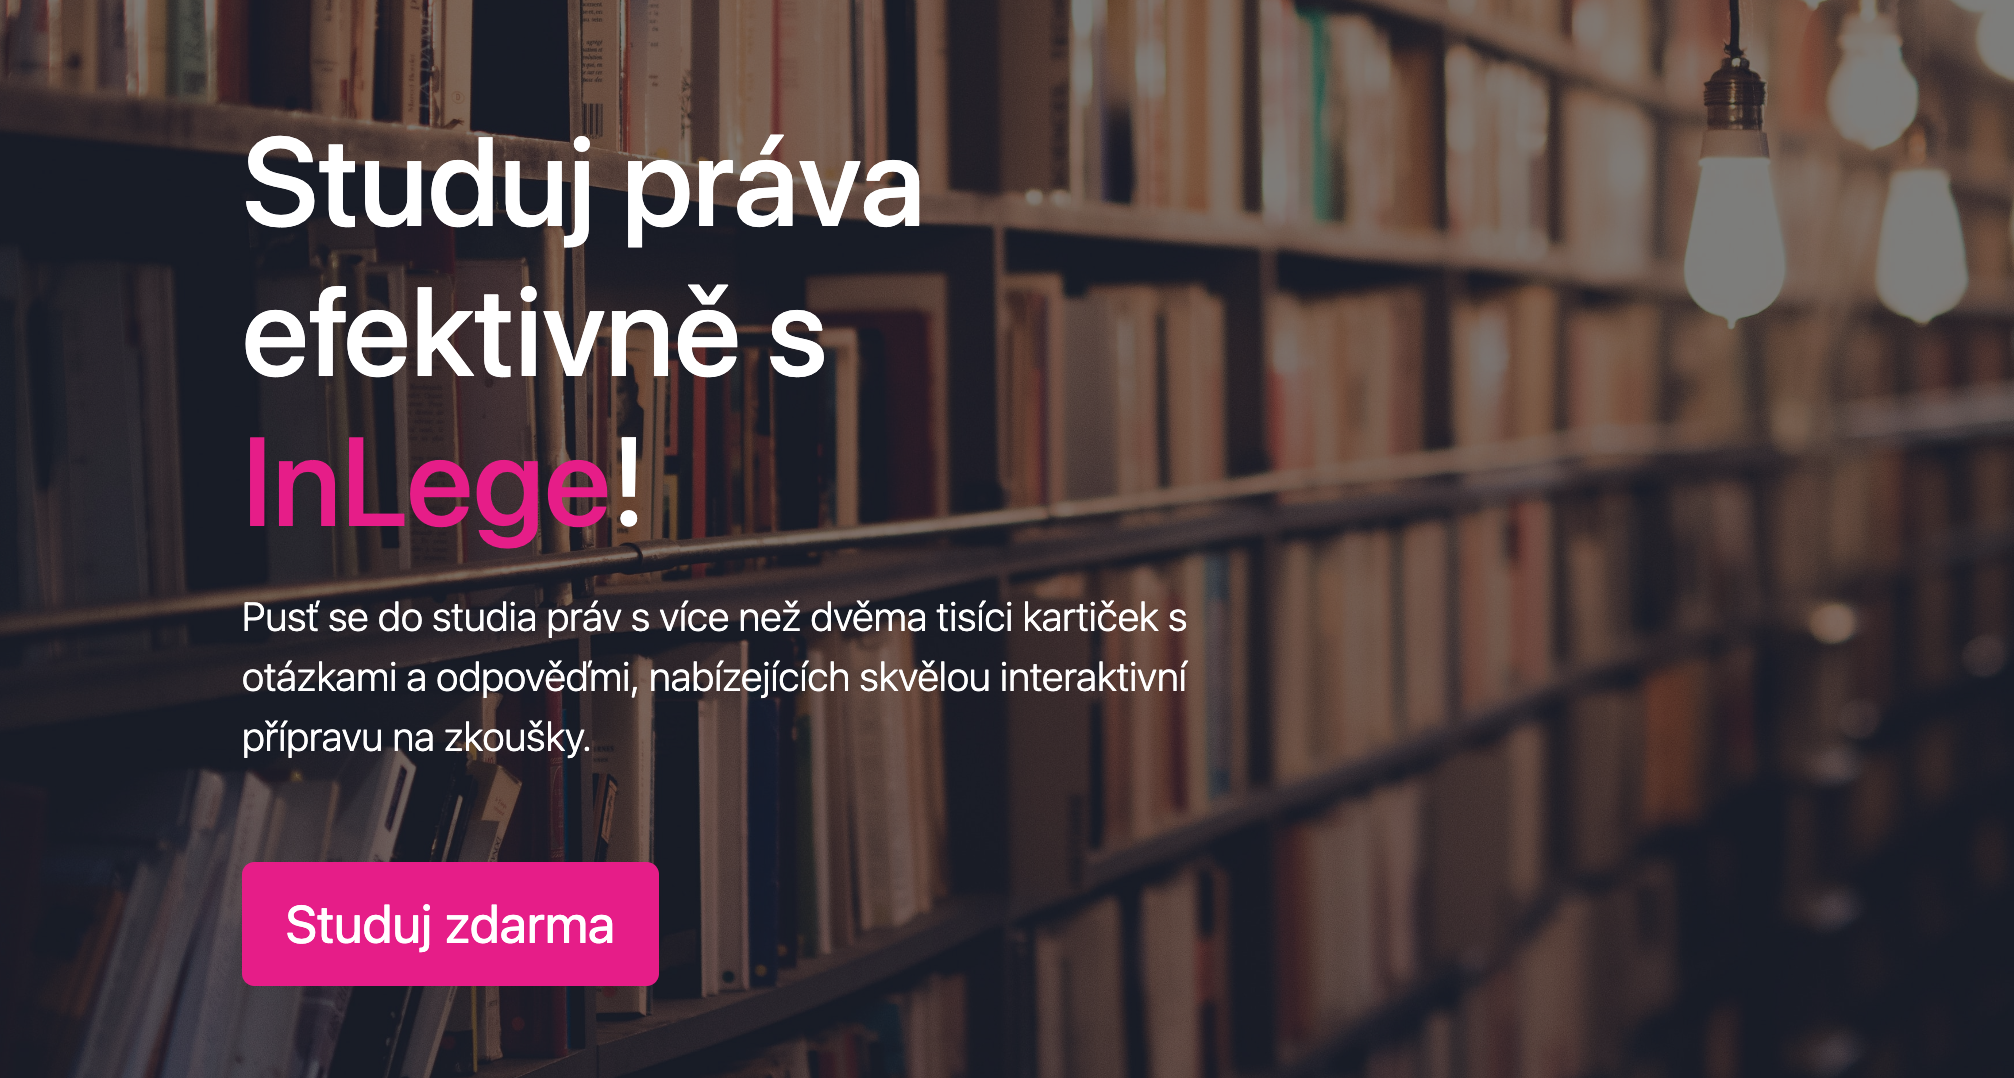
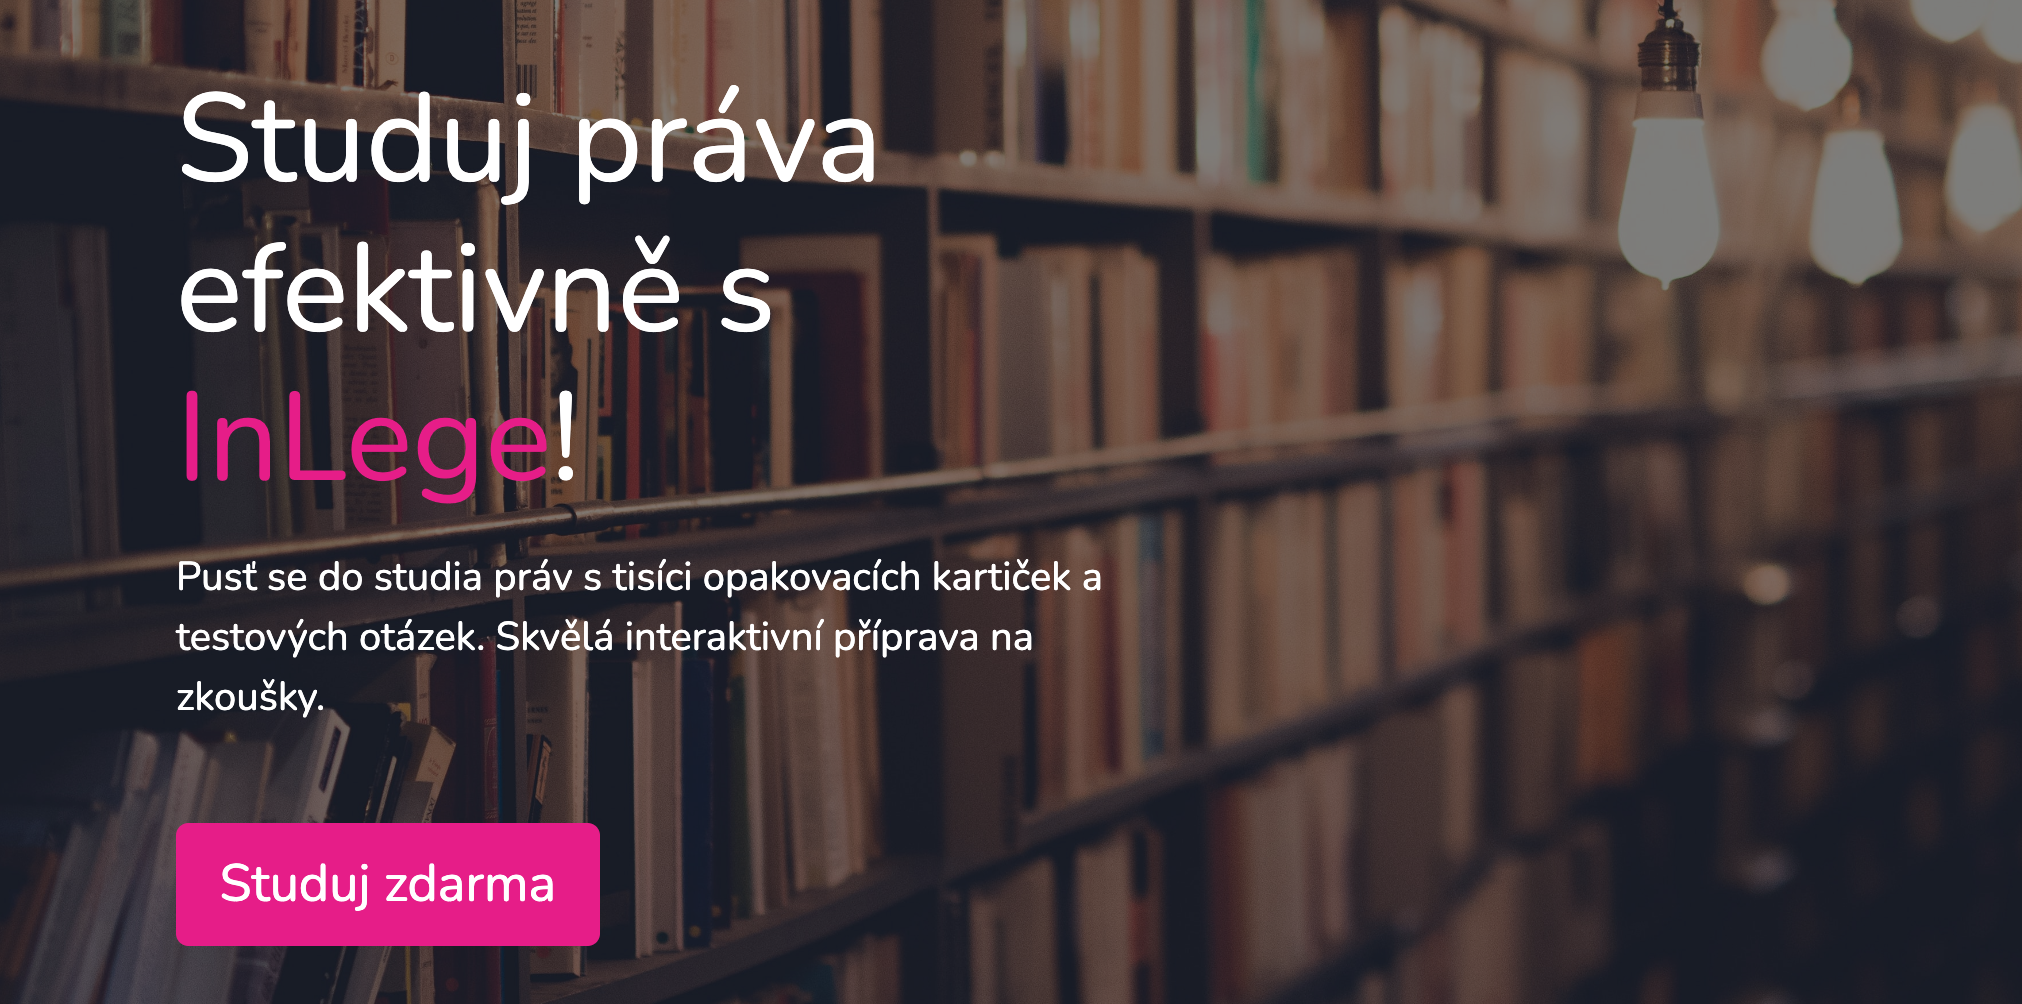
git final v2.21

diff --git a/routes/admin.js b/routes/admin.js
@@ -58,6 +58,7 @@ router.get('/admin/admin', isLoggedIn, isAdmin, catchAsync(async (req, res) => {
     let totalQuestionsSeen = 0;
     let monthCardsSeen = 0;
     let monthQuestionsSeen = 0;
+    let reachedQuestionsLimit = 0;
     let faculties = {prfUp: 0, prfUk: 0, prfMuni: 0, prfZcu: 0, prfJina: 0, prfNestuduji: 0, prfUchazec: 0, prfNeuvedeno: 0};
     let sources = {pratele: 0, ucitele: 0, instagram: 0, facebook: 0, google: 0, odjinud: 0, neuvedeno: 0};
 
@@ -83,6 +84,8 @@ router.get('/admin/admin', isLoggedIn, isAdmin, catchAsync(async (req, res) => {
         if(user.isPremium && user.plan !== "none" && !user.premiumGrantedByAdmin){activePremiumSubscriptions++}
         //count unsubscribed users
         if(user.hasUnsubscribed === true){unsubscribedUsersCount++};
+        //count free users who reached questions limit
+        if(!user.isPremium && user.questionsSeenThisMonth > 50){reachedQuestionsLimit++};
         //count users active in the last week
         if(user.lastActive && moment(user.lastActive).isAfter(moment().subtract(1, 'week'))){usersActiveInLastWeek++};
         //count premium activations in the last week
@@ -141,7 +144,8 @@ router.get('/admin/admin', isLoggedIn, isAdmin, catchAsync(async (req, res) => {
         monthCardsSeen,
         monthQuestionsSeen,
         activePremiumSubscriptions,
-        sources
+        sources,
+        reachedQuestionsLimit
     });
 }))
 

diff --git a/routes/home.js b/routes/home.js
@@ -1,6 +1,7 @@
 const express = require('express');
 const Category = require('../models/category');
 const Card = require('../models/card');
+const Question = require('../models/question');
 const User = require('../models/user');
 const Section = require('../models/section');
 const router = express.Router();
@@ -13,9 +14,10 @@ router.get('/', isPremiumUser, catchAsync(async(req, res) => {
     const categories = await Category.find({});
     let numOfCategories = categories.length;
     const numOfCards = await Card.count();
+    const numOfQuestions = await Question.count();
     const numOfSections = await Section.count();
     sortByOrderNum(categories);
-    res.status(200).render('index', {categories, numOfCards, numOfSections, numOfCategories});
+    res.status(200).render('index', {categories, numOfCards, numOfQuestions, numOfSections, numOfCategories});
 }))
 
 function sortByOrderNum(array) {

diff --git a/utils/texts.inlege.js b/utils/texts.inlege.js
@@ -12,7 +12,7 @@ module.exports.header = {
 
 module.exports.landingPage = {
     mainTitleStart: "Studuj práva efektivně s",
-    headerStatement: "Pusť se do studia práv s více než pěti tisíci kartiček s otázkami a odpověďmi. Skvělá interaktivní příprava na zkoušky.",
+    headerStatement: "Pusť se do studia práv s tisíci opakovacích kartiček a testových otázek. Skvělá interaktivní příprava na zkoušky.",
     studyFree: "Studuj zdarma",
     pointOneMain: "interaktivních kartiček",
     pointOneSecondary: "a přibývají každý týden",
